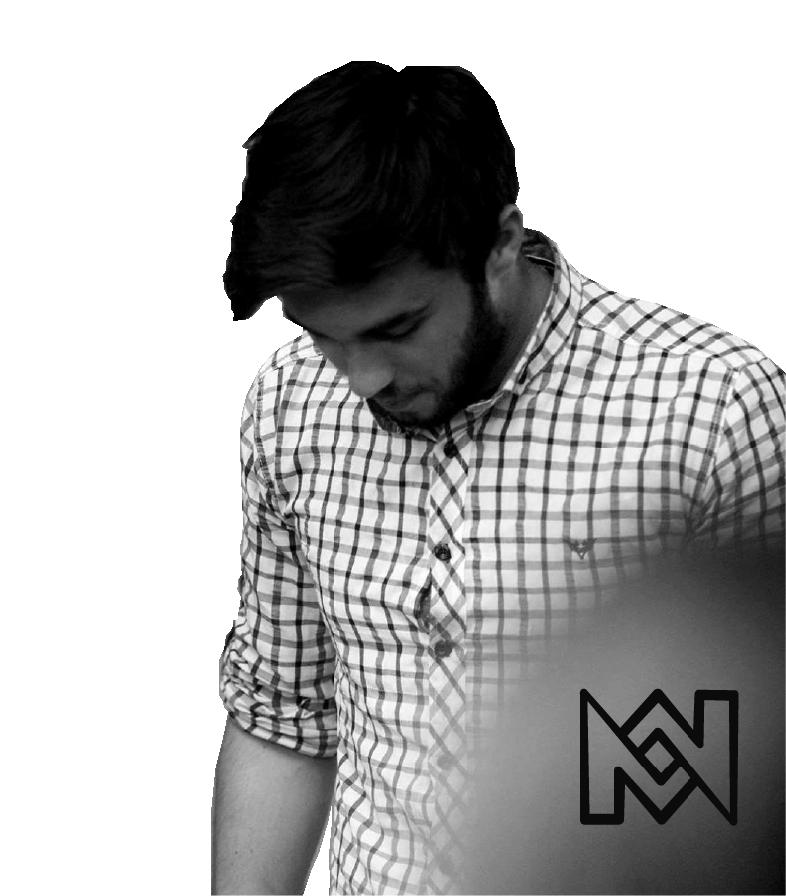
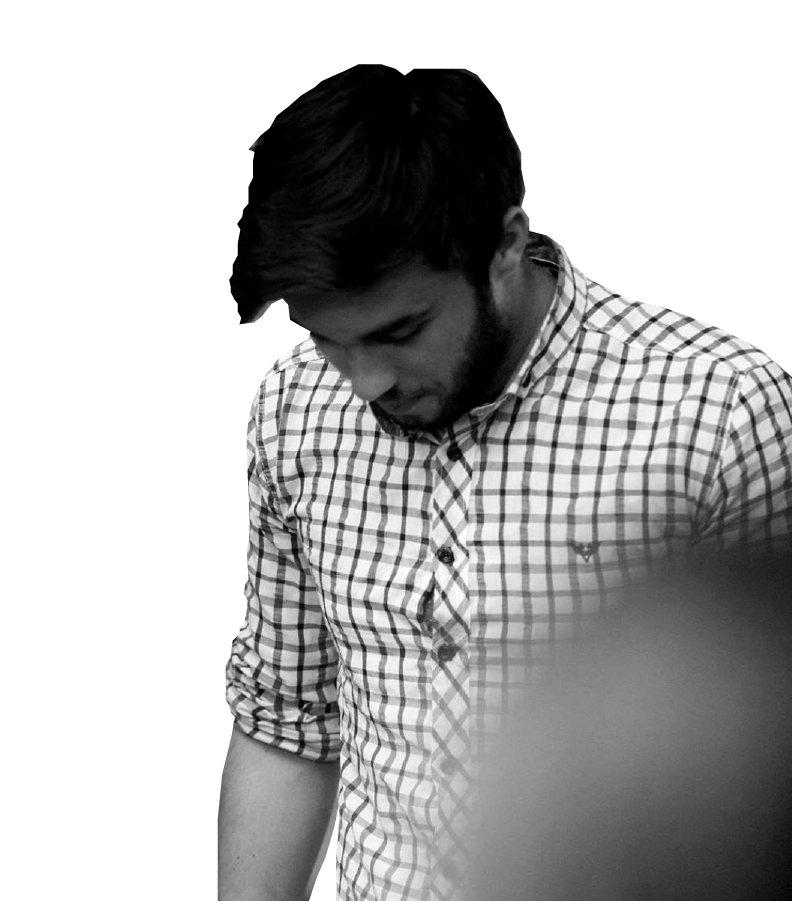
style hero section for all screen sizes

diff --git a/src/temp.html b/src/temp.html
@@ -10,12 +10,94 @@
     <header>
       <section id="hero">
         <div class="container">
-          <div class="row align-items-center">
-            <div class="col-lg-4">
-              <h1 class="display-1">HI, I am a <span>Student</span></h1>
-            </div>
-            <div class="col-lg d-flex justify-content-end align-items-end">
-              <img id="avatar" />
+          <div class="row">
+            <div class="col-lg-5 d-flex flex-column justify-content-lg-center my-5 hero-text-group">
+              <h1 class="display-1 mt-5">HI, I am a <span>Student</span></h1>
+              <p class="lead">
+                A young <strong>Front-end</strong> developer with crazy for
+                mobile responsive design.
+              </p>
+
+              <div class="find-me">
+                <p>Find me on:</p>
+                <svg
+                  xmlns="http://www.w3.org/2000/svg"
+                  width="16"
+                  height="16"
+                  fill="currentColor"
+                  class="bi bi-github"
+                  viewBox="0 0 16 16"
+                >
+                  <path
+                    d="M8 0C3.58 0 0 3.58 0 8c0 3.54 2.29 6.53 5.47 7.59.4.07.55-.17.55-.38 0-.19-.01-.82-.01-1.49-2.01.37-2.53-.49-2.69-.94-.09-.23-.48-.94-.82-1.13-.28-.15-.68-.52-.01-.53.63-.01 1.08.58 1.23.82.72 1.21 1.87.87 2.33.66.07-.52.28-.87.51-1.07-1.78-.2-3.64-.89-3.64-3.95 0-.87.31-1.59.82-2.15-.08-.2-.36-1.02.08-2.12 0 0 .67-.21 2.2.82.64-.18 1.32-.27 2-.27.68 0 1.36.09 2 .27 1.53-1.04 2.2-.82 2.2-.82.44 1.1.16 1.92.08 2.12.51.56.82 1.27.82 2.15 0 3.07-1.87 3.75-3.65 3.95.29.25.54.73.54 1.48 0 1.07-.01 1.93-.01 2.2 0 .21.15.46.55.38A8.012 8.012 0 0 0 16 8c0-4.42-3.58-8-8-8z"
+                  />
+                </svg>
+                <svg
+                  xmlns="http://www.w3.org/2000/svg"
+                  width="16"
+                  height="16"
+                  fill="currentColor"
+                  class="bi bi-linkedin"
+                  viewBox="0 0 16 16"
+                >
+                  <path
+                    d="M0 1.146C0 .513.526 0 1.175 0h13.65C15.474 0 16 .513 16 1.146v13.708c0 .633-.526 1.146-1.175 1.146H1.175C.526 16 0 15.487 0 14.854V1.146zm4.943 12.248V6.169H2.542v7.225h2.401zm-1.2-8.212c.837 0 1.358-.554 1.358-1.248-.015-.709-.52-1.248-1.342-1.248-.822 0-1.359.54-1.359 1.248 0 .694.521 1.248 1.327 1.248h.016zm4.908 8.212V9.359c0-.216.016-.432.08-.586.173-.431.568-.878 1.232-.878.869 0 1.216.662 1.216 1.634v3.865h2.401V9.25c0-2.22-1.184-3.252-2.764-3.252-1.274 0-1.845.7-2.165 1.193v.025h-.016a5.54 5.54 0 0 1 .016-.025V6.169h-2.4c.03.678 0 7.225 0 7.225h2.4z"
+                  />
+                </svg>
+                <svg
+                  xmlns="http://www.w3.org/2000/svg"
+                  width="16"
+                  height="16"
+                  fill="currentColor"
+                  class="bi bi-instagram"
+                  viewBox="0 0 16 16"
+                >
+                  <path
+                    d="M8 0C5.829 0 5.556.01 4.703.048 3.85.088 3.269.222 2.76.42a3.917 3.917 0 0 0-1.417.923A3.927 3.927 0 0 0 .42 2.76C.222 3.268.087 3.85.048 4.7.01 5.555 0 5.827 0 8.001c0 2.172.01 2.444.048 3.297.04.852.174 1.433.372 1.942.205.526.478.972.923 1.417.444.445.89.719 1.416.923.51.198 1.09.333 1.942.372C5.555 15.99 5.827 16 8 16s2.444-.01 3.298-.048c.851-.04 1.434-.174 1.943-.372a3.916 3.916 0 0 0 1.416-.923c.445-.445.718-.891.923-1.417.197-.509.332-1.09.372-1.942C15.99 10.445 16 10.173 16 8s-.01-2.445-.048-3.299c-.04-.851-.175-1.433-.372-1.941a3.926 3.926 0 0 0-.923-1.417A3.911 3.911 0 0 0 13.24.42c-.51-.198-1.092-.333-1.943-.372C10.443.01 10.172 0 7.998 0h.003zm-.717 1.442h.718c2.136 0 2.389.007 3.232.046.78.035 1.204.166 1.486.275.373.145.64.319.92.599.28.28.453.546.598.92.11.281.24.705.275 1.485.039.843.047 1.096.047 3.231s-.008 2.389-.047 3.232c-.035.78-.166 1.203-.275 1.485a2.47 2.47 0 0 1-.599.919c-.28.28-.546.453-.92.598-.28.11-.704.24-1.485.276-.843.038-1.096.047-3.232.047s-2.39-.009-3.233-.047c-.78-.036-1.203-.166-1.485-.276a2.478 2.478 0 0 1-.92-.598 2.48 2.48 0 0 1-.6-.92c-.109-.281-.24-.705-.275-1.485-.038-.843-.046-1.096-.046-3.233 0-2.136.008-2.388.046-3.231.036-.78.166-1.204.276-1.486.145-.373.319-.64.599-.92.28-.28.546-.453.92-.598.282-.11.705-.24 1.485-.276.738-.034 1.024-.044 2.515-.045v.002zm4.988 1.328a.96.96 0 1 0 0 1.92.96.96 0 0 0 0-1.92zm-4.27 1.122a4.109 4.109 0 1 0 0 8.217 4.109 4.109 0 0 0 0-8.217zm0 1.441a2.667 2.667 0 1 1 0 5.334 2.667 2.667 0 0 1 0-5.334z"
+                  />
+                </svg>
+              </div>
+              <div
+                class="
+                  d-flex
+                  flex-column
+                  align-items-center align-items-md-start
+                "
+              >
+                <div class="mt-5">
+                  <button type="button" class="btn btn-danger btn-lg m-1">
+                    Portfolio
+                  </button>
+                  <button
+                    type="button"
+                    class="btn btn-outline-danger btn-lg m-1"
+                  >
+                    Github
+                  </button>
+                </div>
+              </div>
+              </div>
+              <div id="avatar" class="col-lg">
+                <img class="avatar" />
+                <svg
+                  class="logo"
+                  xmlns="http://www.w3.org/2000/svg"
+                  viewBox="0 0 234.786 220.517"
+                >
+                  <g data-name="Layer 2">
+                    <g fill="currentColor" data-name="Layer 1">
+                      <path
+                        d="M58.243 219.092H5.323c-.4-.611-1.76-.513-3.06-1.613a6.852 6.852 0 0 1-2-4.178V9.217c-.876-3.5.5-7.259 3.22-8.8a5.194 5.194 0 0 1 6.48 2.2l109.52 134.152 20.88-24.777 9.12 11.142-26.2 32.25a7.048 7.048 0 0 1-4.32 1.026 8.534 8.534 0 0 1-6-3.959l-102.24-134 3.24 183.533h36.26v-69.638c.45-2.639 1.46-5.278 3.34-6.6a4.511 4.511 0 0 1 6.12.88l59.76 70.862 46.08-54.979 10.08 12.315-49.4 61.088a7.73 7.73 0 0 1-6 3.225 8.1 8.1 0 0 1-6.48-4.105l-47.52-61.573-1.48 58.5a8.234 8.234 0 0 1-2.16 4.692c-1.82 1.879-3.86 1.818-4.32 2.441Z"
+                        data-name="Path 60"
+                      />
+                      <path
+                        d="m176.887 1.635 52.91.781a4.059 4.059 0 0 1 3.05.988 6.292 6.292 0 0 1 1.94 4.209l-2 203.753c.92 3.189-.2 6.722-2.638 8.327s-5.473.806-7.152-1.885q-54-67.787-108.11-135.563l-21.12 24.511-9-11.256 26.47-31.82a7.077 7.077 0 0 1 4.33-.964 8.6 8.6 0 0 1 6 4.038l100.92 135.303-1.49-183.231-36.71-.976-1.05 69.825a6.8 6.8 0 0 1-2.687 6.632 4.486 4.486 0 0 1-6-1.044l-59.063-71.582L68.867 75.9l-10-12.445 50-60.321A7.657 7.657 0 0 1 114.937 0a8.183 8.183 0 0 1 6.44 4.2l46.91 62.224 2-58.393a8.11 8.11 0 0 1 2.2-4.648 5.63 5.63 0 0 1 4.4-1.745Z"
+                        data-name="Path 61"
+                      />
+                    </g>
+                  </g>
+                </svg>
+              </div>
             </div>
           </div>
         </div>

diff --git a/src/scss/custom/components/_sections.scss b/src/scss/custom/components/_sections.scss
@@ -5,13 +5,32 @@ section {
   min-height: 100vh;
   transition: all 0.4s ease-in-out;
 }
+#hero {
+  .row {
+    min-height: 100vh;
+  }
+  .hero-text-group {
+    margin: 5rem 0;
+    z-index: 1000;
+  }
+}
 
 //::::::Hero Section::::::::::::::::::://
-
 #avatar {
+  position: relative;
+}
+.avatar {
   position: absolute;
-  top: 0;
+  bottom: 0;
   right: 0;
   max-height: 100vh;
   max-width: 100%;
+  user-select: none;
+}
+.logo {
+  position: absolute;
+  bottom: 0;
+  right: 0;
+  padding: 1rem;
+  width: 100px;
 }

diff --git a/src/js/app.js b/src/js/app.js
@@ -1,10 +1,8 @@
 import style from "/src/scss/main.scss";
 import * as bootstrap from "bootstrap";
-import { gsap } from "gsap";
 
 import component from "./component.js";
 import images from "./images.js";
-import glitch from "./glitch";
 
 document.getElementById("avatar").addEventListener("click", () => {
   if (document.querySelector("body").classList.contains("theme-dark")) {

diff --git a/src/js/images.js b/src/js/images.js
@@ -1,4 +1,6 @@
 import { setImage } from "./utilities.js";
 import profile from "../img/profile-cut.png";
-
-// setImage("#avatar", profile);
+import logo from "../img/logo-nati.svg";
+setImage(".avatar", profile, undefined, (image) => {
+  image.draggable = false;
+});

diff --git a/src/scss/custom/themes/_theme-mixin.scss b/src/scss/custom/themes/_theme-mixin.scss
@@ -14,7 +14,7 @@
           border-color: map-get($map, border-color);
         }
       } @else if($section == avatar) {
-        ##{$section} {
+        .#{$section} {
           mix-blend-mode: map-get($map, blend-mode);
         }
       } @else {

diff --git a/src/scss/custom/components/_index.scss b/src/scss/custom/components/_index.scss
@@ -1,1 +1,2 @@
 @import "./sections";
+@import "./buttons";

diff --git a/src/scss/custom/components/_buttons.scss b/src/scss/custom/components/_buttons.scss
@@ -1,0 +1,3 @@
+.btn {
+  border-radius: 2rem;
+}
